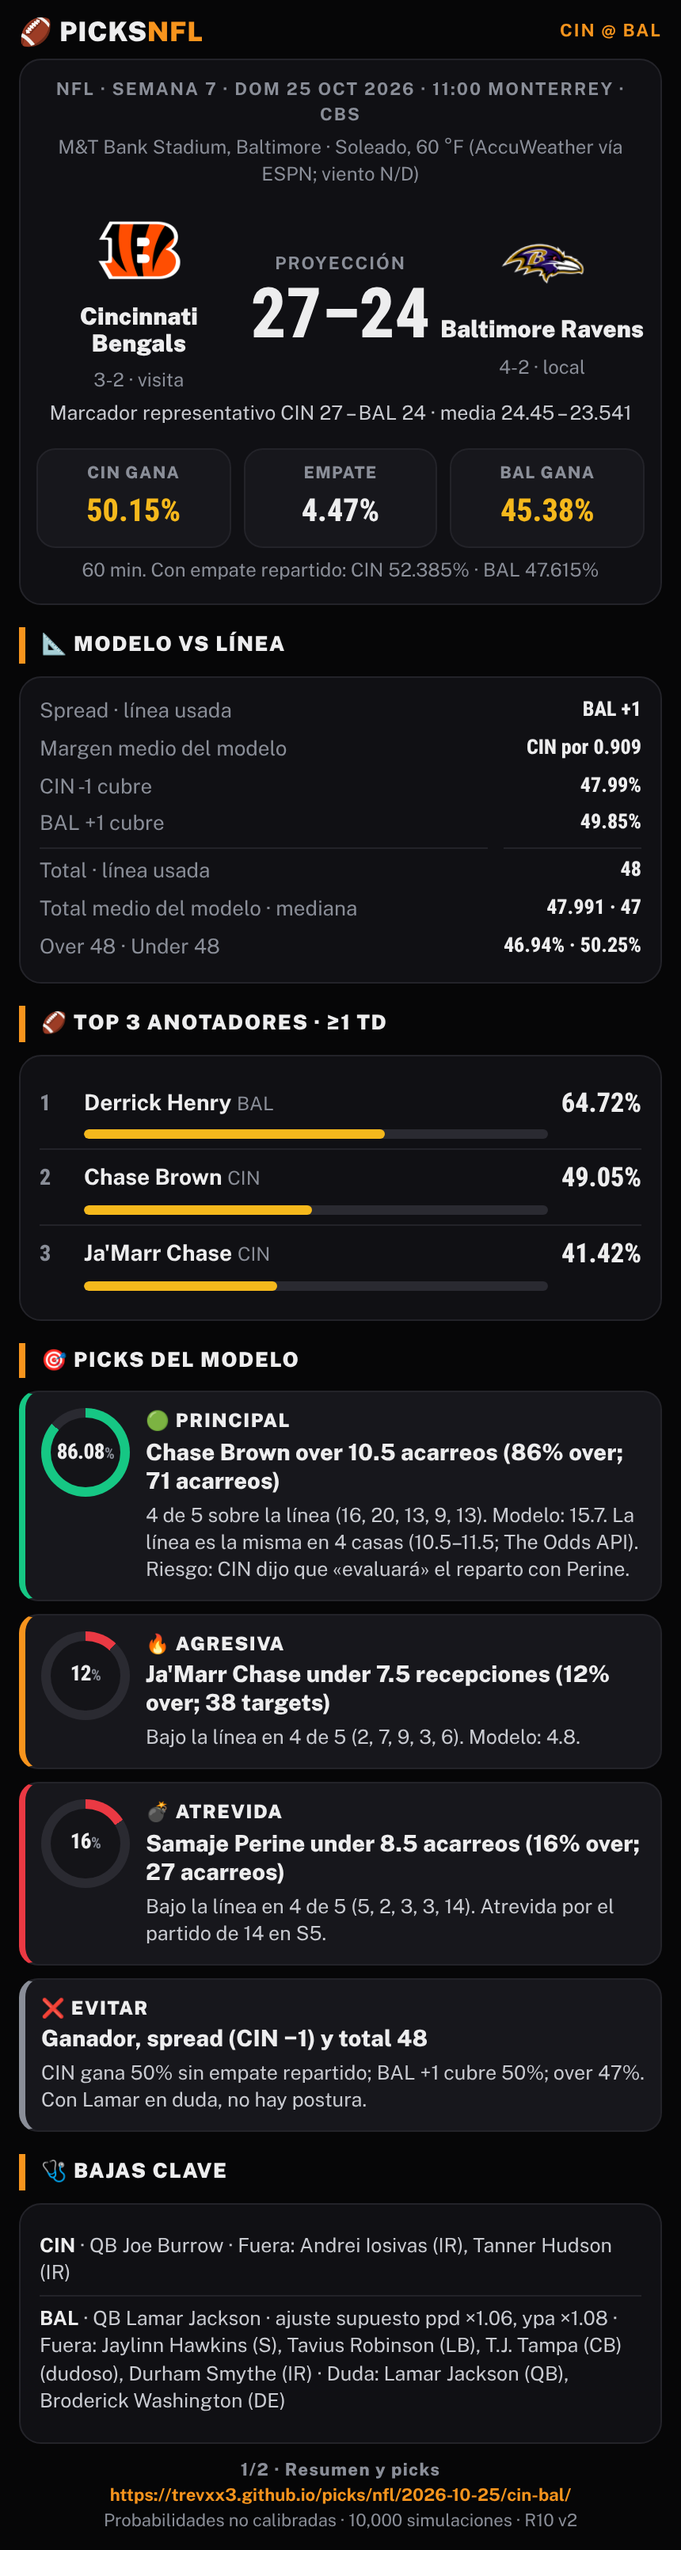
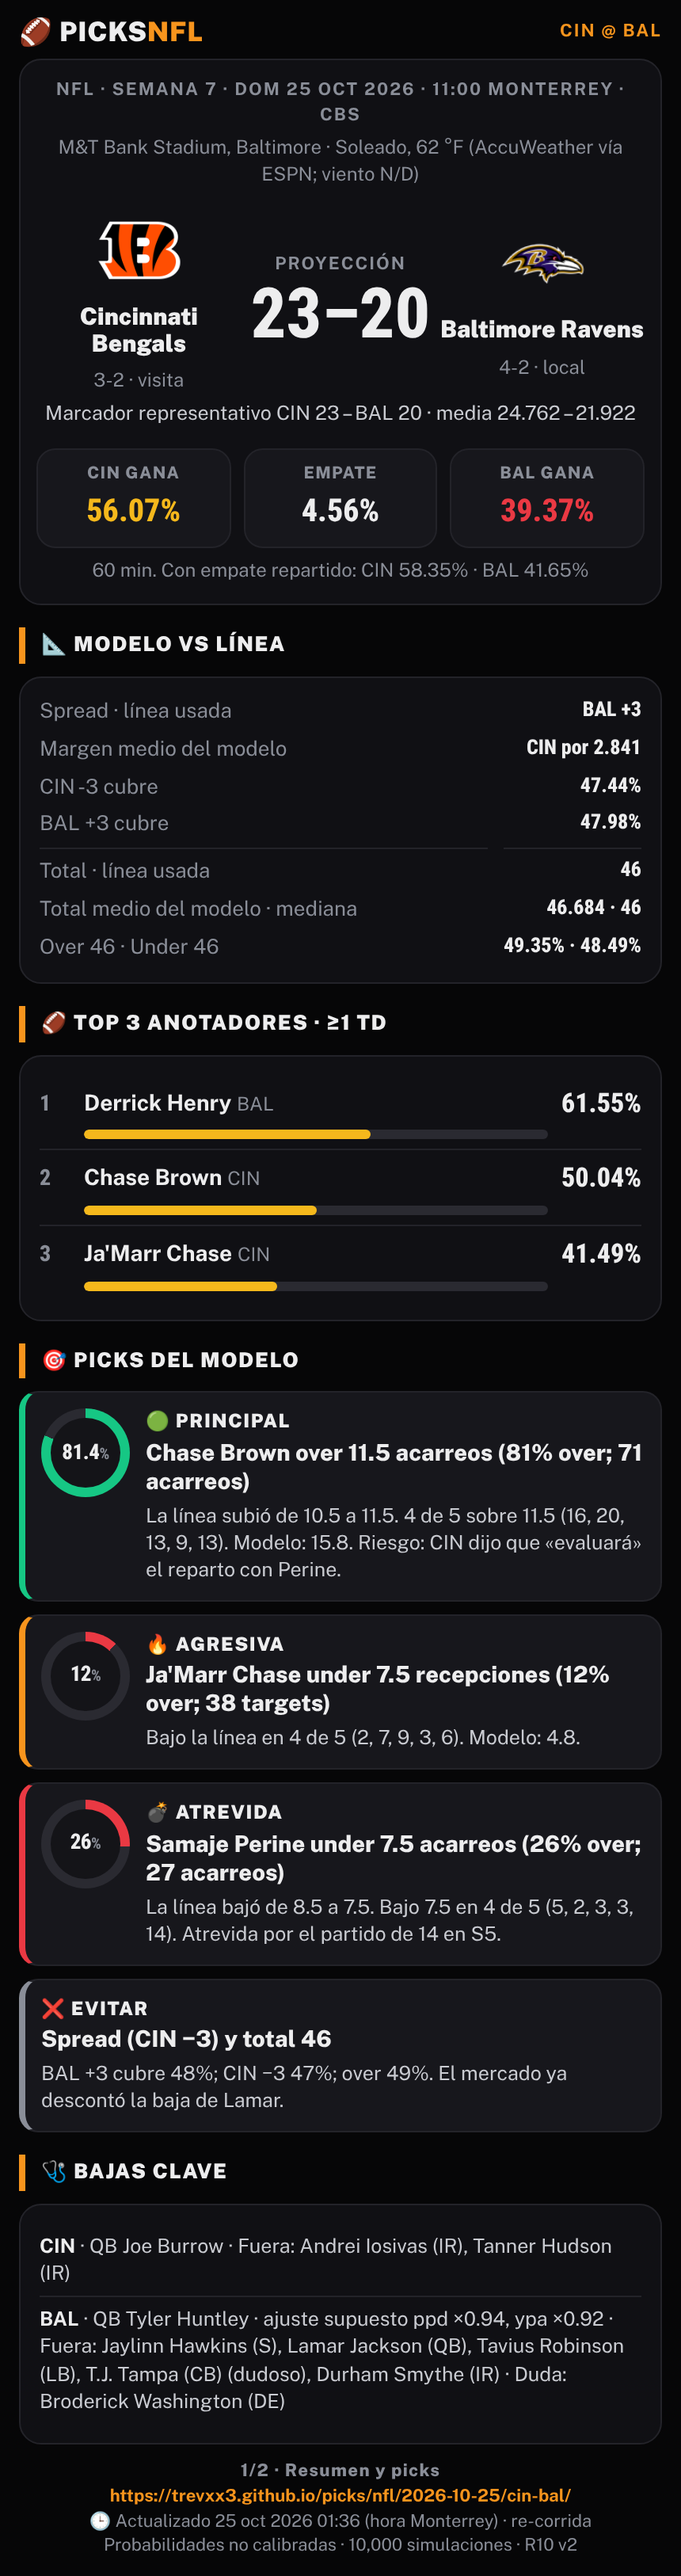
NFL Semana 7: imágenes para compartir · re-corrida dom 25-oct

diff --git a/nfl/2026-10-25/semana7-imagenes/index.html b/nfl/2026-10-25/semana7-imagenes/index.html
@@ -1,30 +1,30 @@
 <!doctype html><html lang="es"><head><meta charset="utf-8"><meta name="viewport" content="width=device-width,initial-scale=1"><meta name="robots" content="noindex"><title>Semana 7 · Imágenes para compartir</title>
 <style>body{margin:0;background:#0b0f14;color:#e8eef5;font-family:-apple-system,system-ui,sans-serif}h1{font-size:18px;padding:16px 16px 4px;margin:0}p{padding:0 16px;color:#9fb0c2;font-size:13px}a{display:block}img{display:block;width:100%;max-width:430px;margin:12px auto;border-radius:12px}</style></head>
-<body><h1>NFL · Semana 7 · Imágenes</h1><p>Mantén presionada una imagen para guardarla o compartirla. <a style="display:inline;color:#7cc4ff" href="../semana7-ganadores/">Ver ganadores</a></p>
-<a href="00_resumen.png"><img src="00_resumen.png" alt="00_resumen" loading="lazy"></a>
-<a href="01_PIT-NO_1.png"><img src="01_PIT-NO_1.png" alt="01_PIT-NO_1" loading="lazy"></a>
-<a href="01_PIT-NO_2.png"><img src="01_PIT-NO_2.png" alt="01_PIT-NO_2" loading="lazy"></a>
-<a href="02_SF-ATL_1.png"><img src="02_SF-ATL_1.png" alt="02_SF-ATL_1" loading="lazy"></a>
-<a href="02_SF-ATL_2.png"><img src="02_SF-ATL_2.png" alt="02_SF-ATL_2" loading="lazy"></a>
-<a href="03_CLE-TEN_1.png"><img src="03_CLE-TEN_1.png" alt="03_CLE-TEN_1" loading="lazy"></a>
-<a href="03_CLE-TEN_2.png"><img src="03_CLE-TEN_2.png" alt="03_CLE-TEN_2" loading="lazy"></a>
-<a href="04_IND-MIN_1.png"><img src="04_IND-MIN_1.png" alt="04_IND-MIN_1" loading="lazy"></a>
-<a href="04_IND-MIN_2.png"><img src="04_IND-MIN_2.png" alt="04_IND-MIN_2" loading="lazy"></a>
-<a href="05_MIA-NYJ_1.png"><img src="05_MIA-NYJ_1.png" alt="05_MIA-NYJ_1" loading="lazy"></a>
-<a href="05_MIA-NYJ_2.png"><img src="05_MIA-NYJ_2.png" alt="05_MIA-NYJ_2" loading="lazy"></a>
-<a href="06_TB-CAR_1.png"><img src="06_TB-CAR_1.png" alt="06_TB-CAR_1" loading="lazy"></a>
-<a href="06_TB-CAR_2.png"><img src="06_TB-CAR_2.png" alt="06_TB-CAR_2" loading="lazy"></a>
-<a href="07_CIN-BAL_1.png"><img src="07_CIN-BAL_1.png" alt="07_CIN-BAL_1" loading="lazy"></a>
-<a href="07_CIN-BAL_2.png"><img src="07_CIN-BAL_2.png" alt="07_CIN-BAL_2" loading="lazy"></a>
-<a href="08_NYG-HOU_1.png"><img src="08_NYG-HOU_1.png" alt="08_NYG-HOU_1" loading="lazy"></a>
-<a href="08_NYG-HOU_2.png"><img src="08_NYG-HOU_2.png" alt="08_NYG-HOU_2" loading="lazy"></a>
-<a href="09_DEN-ARI_1.png"><img src="09_DEN-ARI_1.png" alt="09_DEN-ARI_1" loading="lazy"></a>
-<a href="09_DEN-ARI_2.png"><img src="09_DEN-ARI_2.png" alt="09_DEN-ARI_2" loading="lazy"></a>
-<a href="10_GB-DET_1.png"><img src="10_GB-DET_1.png" alt="10_GB-DET_1" loading="lazy"></a>
-<a href="10_GB-DET_2.png"><img src="10_GB-DET_2.png" alt="10_GB-DET_2" loading="lazy"></a>
-<a href="11_LAR-LV_1.png"><img src="11_LAR-LV_1.png" alt="11_LAR-LV_1" loading="lazy"></a>
-<a href="11_LAR-LV_2.png"><img src="11_LAR-LV_2.png" alt="11_LAR-LV_2" loading="lazy"></a>
-<a href="12_KC-SEA_1.png"><img src="12_KC-SEA_1.png" alt="12_KC-SEA_1" loading="lazy"></a>
-<a href="12_KC-SEA_2.png"><img src="12_KC-SEA_2.png" alt="12_KC-SEA_2" loading="lazy"></a>
-<a href="13_DAL-PHI_1.png"><img src="13_DAL-PHI_1.png" alt="13_DAL-PHI_1" loading="lazy"></a>
-<a href="13_DAL-PHI_2.png"><img src="13_DAL-PHI_2.png" alt="13_DAL-PHI_2" loading="lazy"></a></body></html>
+<body><h1>NFL · Semana 7 · Imágenes</h1><p style="color:#ffb547;font-weight:700">🕒 Actualizado 25 oct 2026 01:36 (hora Monterrey) · re-corrida con lesiones y líneas del sáb 24 / dom 25</p><p>Mantén presionada una imagen para guardarla o compartirla. <a style="display:inline;color:#7cc4ff" href="../semana7-ganadores/">Ver ganadores</a></p>
+<a href="00_resumen.png?v=r2"><img src="00_resumen.png?v=r2" alt="00_resumen" loading="lazy"></a>
+<a href="01_PIT-NO_1.png?v=r2"><img src="01_PIT-NO_1.png?v=r2" alt="01_PIT-NO_1" loading="lazy"></a>
+<a href="01_PIT-NO_2.png?v=r2"><img src="01_PIT-NO_2.png?v=r2" alt="01_PIT-NO_2" loading="lazy"></a>
+<a href="02_SF-ATL_1.png?v=r2"><img src="02_SF-ATL_1.png?v=r2" alt="02_SF-ATL_1" loading="lazy"></a>
+<a href="02_SF-ATL_2.png?v=r2"><img src="02_SF-ATL_2.png?v=r2" alt="02_SF-ATL_2" loading="lazy"></a>
+<a href="03_CLE-TEN_1.png?v=r2"><img src="03_CLE-TEN_1.png?v=r2" alt="03_CLE-TEN_1" loading="lazy"></a>
+<a href="03_CLE-TEN_2.png?v=r2"><img src="03_CLE-TEN_2.png?v=r2" alt="03_CLE-TEN_2" loading="lazy"></a>
+<a href="04_IND-MIN_1.png?v=r2"><img src="04_IND-MIN_1.png?v=r2" alt="04_IND-MIN_1" loading="lazy"></a>
+<a href="04_IND-MIN_2.png?v=r2"><img src="04_IND-MIN_2.png?v=r2" alt="04_IND-MIN_2" loading="lazy"></a>
+<a href="05_MIA-NYJ_1.png?v=r2"><img src="05_MIA-NYJ_1.png?v=r2" alt="05_MIA-NYJ_1" loading="lazy"></a>
+<a href="05_MIA-NYJ_2.png?v=r2"><img src="05_MIA-NYJ_2.png?v=r2" alt="05_MIA-NYJ_2" loading="lazy"></a>
+<a href="06_TB-CAR_1.png?v=r2"><img src="06_TB-CAR_1.png?v=r2" alt="06_TB-CAR_1" loading="lazy"></a>
+<a href="06_TB-CAR_2.png?v=r2"><img src="06_TB-CAR_2.png?v=r2" alt="06_TB-CAR_2" loading="lazy"></a>
+<a href="07_CIN-BAL_1.png?v=r2"><img src="07_CIN-BAL_1.png?v=r2" alt="07_CIN-BAL_1" loading="lazy"></a>
+<a href="07_CIN-BAL_2.png?v=r2"><img src="07_CIN-BAL_2.png?v=r2" alt="07_CIN-BAL_2" loading="lazy"></a>
+<a href="08_NYG-HOU_1.png?v=r2"><img src="08_NYG-HOU_1.png?v=r2" alt="08_NYG-HOU_1" loading="lazy"></a>
+<a href="08_NYG-HOU_2.png?v=r2"><img src="08_NYG-HOU_2.png?v=r2" alt="08_NYG-HOU_2" loading="lazy"></a>
+<a href="09_DEN-ARI_1.png?v=r2"><img src="09_DEN-ARI_1.png?v=r2" alt="09_DEN-ARI_1" loading="lazy"></a>
+<a href="09_DEN-ARI_2.png?v=r2"><img src="09_DEN-ARI_2.png?v=r2" alt="09_DEN-ARI_2" loading="lazy"></a>
+<a href="10_GB-DET_1.png?v=r2"><img src="10_GB-DET_1.png?v=r2" alt="10_GB-DET_1" loading="lazy"></a>
+<a href="10_GB-DET_2.png?v=r2"><img src="10_GB-DET_2.png?v=r2" alt="10_GB-DET_2" loading="lazy"></a>
+<a href="11_LAR-LV_1.png?v=r2"><img src="11_LAR-LV_1.png?v=r2" alt="11_LAR-LV_1" loading="lazy"></a>
+<a href="11_LAR-LV_2.png?v=r2"><img src="11_LAR-LV_2.png?v=r2" alt="11_LAR-LV_2" loading="lazy"></a>
+<a href="12_KC-SEA_1.png?v=r2"><img src="12_KC-SEA_1.png?v=r2" alt="12_KC-SEA_1" loading="lazy"></a>
+<a href="12_KC-SEA_2.png?v=r2"><img src="12_KC-SEA_2.png?v=r2" alt="12_KC-SEA_2" loading="lazy"></a>
+<a href="13_DAL-PHI_1.png?v=r2"><img src="13_DAL-PHI_1.png?v=r2" alt="13_DAL-PHI_1" loading="lazy"></a>
+<a href="13_DAL-PHI_2.png?v=r2"><img src="13_DAL-PHI_2.png?v=r2" alt="13_DAL-PHI_2" loading="lazy"></a></body></html>
